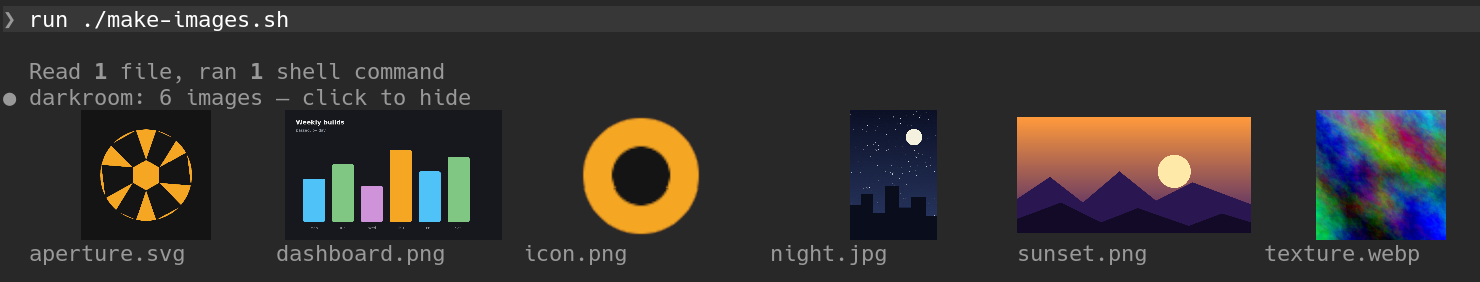
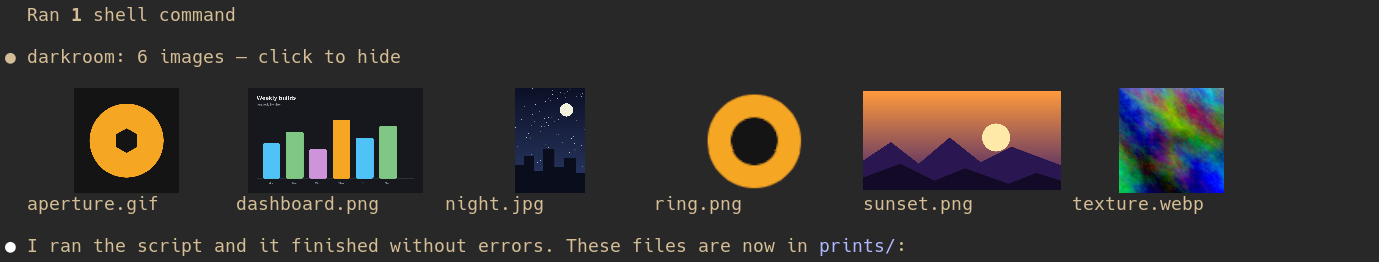
Show darkroom in a real Claude Code session
New screenshots of the demo session. They keep the Claude Code
header, the prompts and Claude's replies around darkroom's rows: the
grey line before it unrolls (new docs/line.png), the film strip, the
hover menu, the viewer and a pasted image above the prompt box.

diff --git a/README.md b/README.md
@@ -14,7 +14,7 @@
   shows up <b>in the chat itself</b>: a grey line under the row, a film strip, a viewer one click away.
 </p>
 
-![A darkroom viewer open in a Claude Code session, under the film strip of six images](docs/viewer.png)
+![A Claude Code session: the film strip of the six images Claude just made, and the viewer open on one of them](docs/viewer.png)
 
 ## Install
 
@@ -43,9 +43,11 @@ sudo apt install imagemagick    # Debian, Ubuntu
 
 ### A line under every row that holds images
 
-![A grey line, darkroom: 6 images, under a command, and its film strip](docs/strip.png)
+![A Claude Code session: Claude runs a script that makes six images, and the grey line darkroom: 6 images shows under its row](docs/line.png)
 
 A screenshot Claude read, a chart a script rendered, an export an MCP tool saved: the row gets a grey line. Click it and the film strip unrolls. The first time, the prints develop under a red safelight.
+
+![The film strip of the six images, unrolled under the grey line](docs/strip.png)
 
 ### Copy without opening
 
